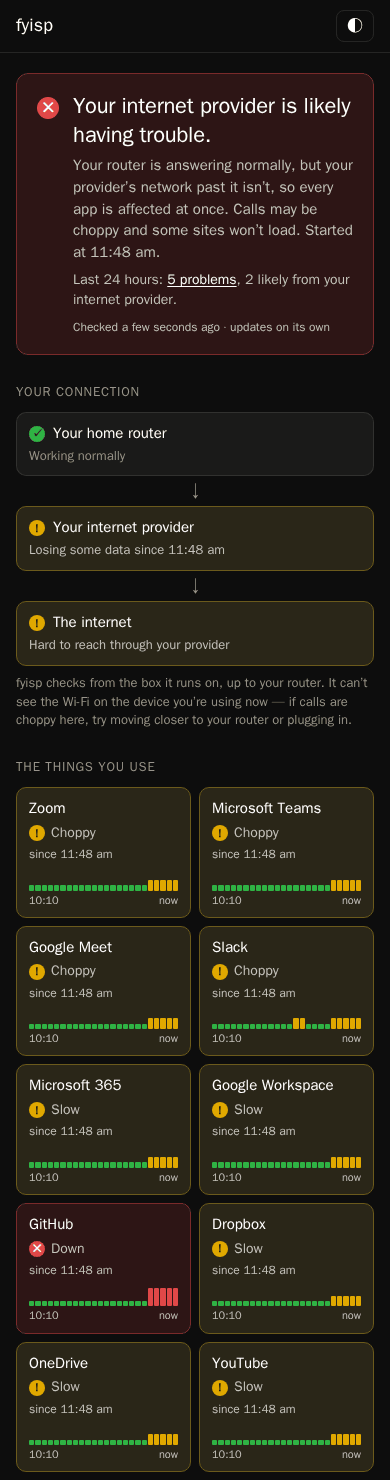
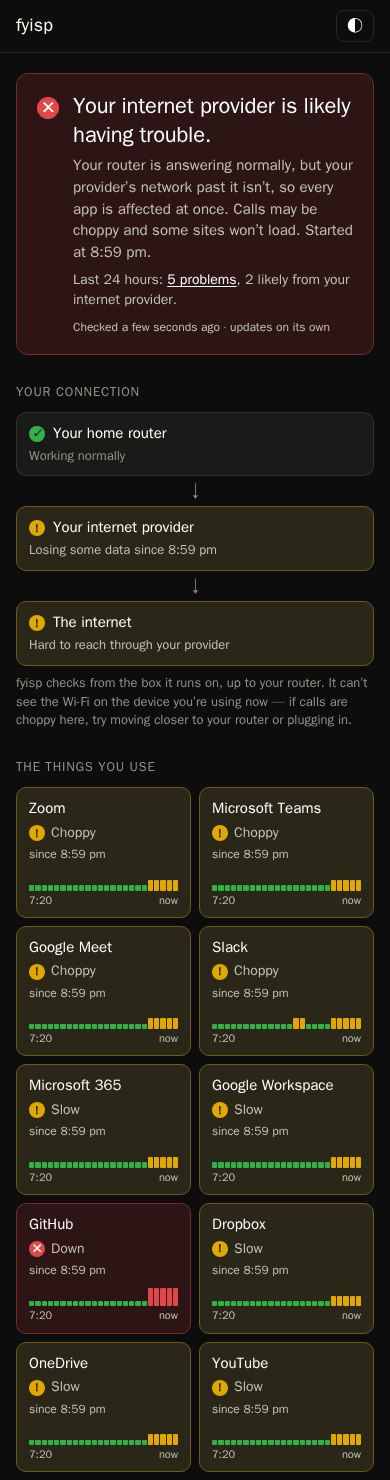
docs: phone screenshot from main after #34

diff --git a/README.md b/README.md
@@ -49,7 +49,7 @@ Add fyisp options at the end, e.g. `... ))) --profile streaming`. `run.ps1` does
 - **Problems in the last 7 days**: a summary by cause (*5 problems: 1 likely from your internet provider, 1 from your home router, 3 from the apps themselves*), then each problem with its time, what happened, its *likely cause* and one line of evidence (*Your router kept answering, but nothing past it did.*). A problem during one of fyisp's own speed tests says so.
 - **The footer**: *Watching your connection since …* and **Technical details →**.
 
-<img src="docs/img/home-phone.png" width="260" align="right" alt="fyisp Home on a phone, in the dark theme, during a problem at the internet provider: a red card, the provider marked on the connection strip, call tiles Choppy and the other apps Slow or Down since 11:48 am">
+<img src="docs/img/home-phone.png" width="260" align="right" alt="fyisp Home on a phone, in the dark theme, during a problem at the internet provider: a red card, the provider marked on the connection strip, call tiles Choppy and the other apps Slow or Down since 8:59 pm">
 
 On a phone the strip stacks and the tiles take 2 columns (right: a problem at the internet provider, in the dark theme).
 
